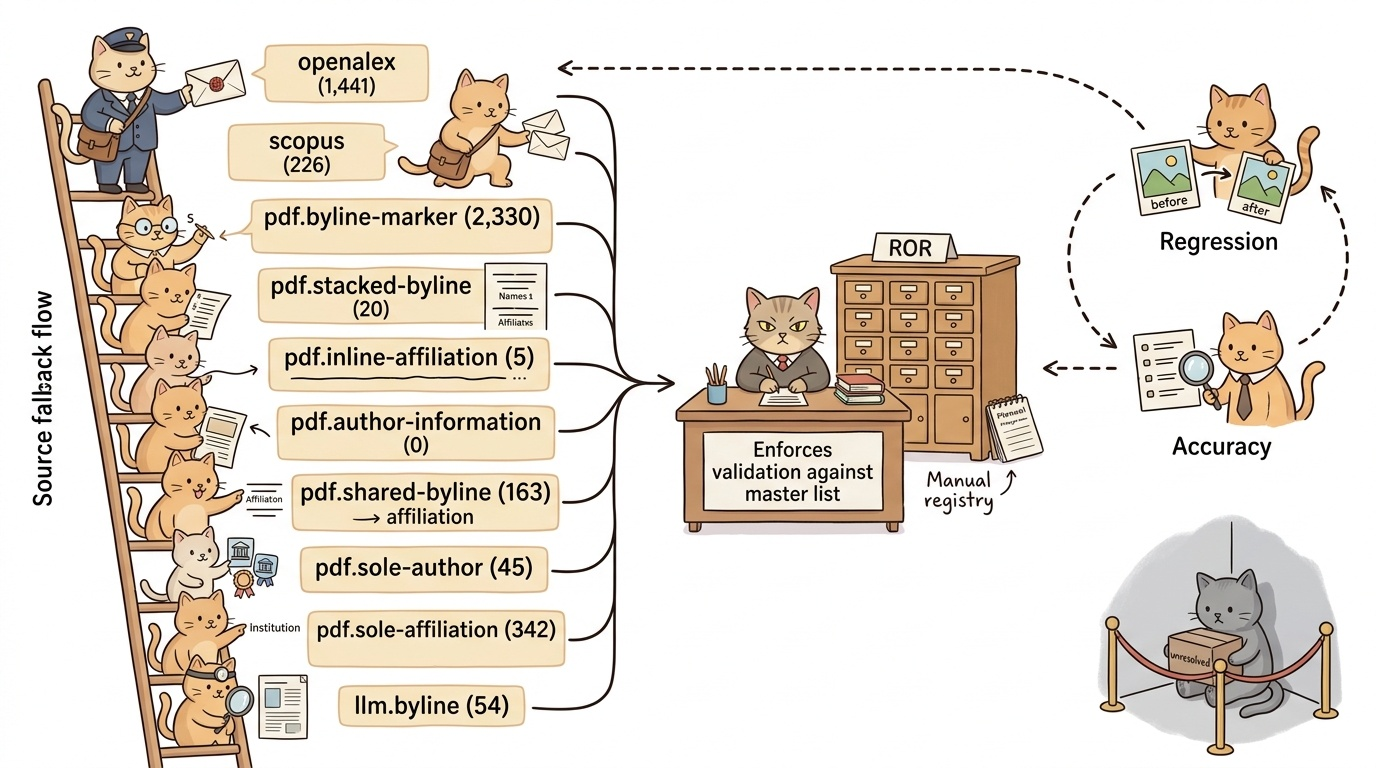
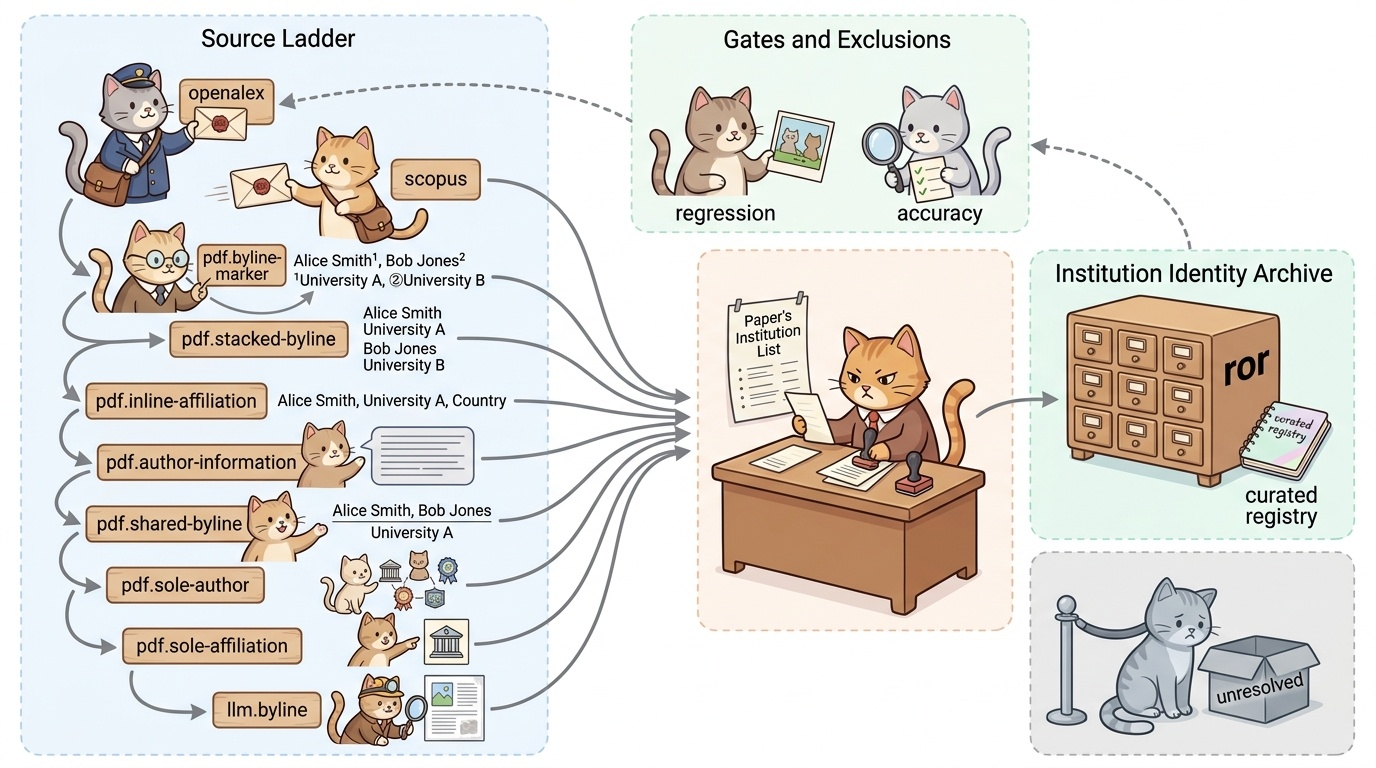
Point the page reader at the papers that need it, not at all of them
The experiment said reordering buys 13% more links for thirty minutes and
$2.83 per three hundred papers, while resolving exactly the same papers. So
the order stays and the reader is aimed instead: a paper whose parsers mapped
under 80% of its authors gets its page read again. That is usually a wide
collaboration whose byline wraps over ten lines and whose parser read one of
them.

`--augment` adds to what the parsers found rather than replacing it — their
rows are evidence in their own right — and skips papers already read. Over the
corpus: 1,126 papers selected, 1,120 read, 4,411 links added. Papers where
every author now has an institution went from 44.9% to 53.0%, trusted links
from 24,449 to 26,212, authors with an institution from 13,270 to 15,280.
Papers resolved stayed at 86.5%, which is the point: this finishes reading
papers rather than reaching new ones.

Fixing it exposed a worse bug. The list of evidence classes that count as an
answer had been copied into four modules and had drifted — pdf.shared-byline
was missing from the report and from the attribution audit, so the recompute
that moved 151 papers into that class read as a 2.7 point drop in coverage
that never happened. lib/evidence.py holds the list now and the four consumers
import it; three tests pin that, including one that fails if the backfill
learns to write a class nothing counts.

The cat figure is redrawn without any numbers — a count drawn into an image is
[…]

diff --git a/pipeline/extract_byline_llm.py b/pipeline/extract_byline_llm.py
@@ -82,6 +82,9 @@ def read_byline(client, png: bytes) -> list[dict]:
                 "type": "base64", "media_type": "image/png",
                 "data": base64.b64encode(png).decode()}},
             {"type": "text", "text": PROMPT}]}])
+    # A refusal, or a stop with no text block, comes back with empty content.
+    if not response.content:
+        return []
     text = response.content[0].text.strip()
     start, end = text.find("{"), text.rfind("}")
     if start < 0 or end < start:
@@ -148,11 +151,24 @@ def resolve(conn: sqlite3.Connection, paper_id: int,
     return rows
 
 
+# A paper whose parsers mapped most of its authors is left alone. Below this
+# the byline was read only in part — typically a wide collaboration where the
+# parser took the first line and stopped — and re-reading the page is worth its
+# cost. Measured on 300 ai4s papers: reading every page produced 14% more links
+# than the parsers, and of the links that differed, 190 were supported by the
+# page against the parsers' 87. Reading every page also cost 30 minutes and
+# $2.83 where the parsers cost 3.9 seconds, so the reader is pointed at the
+# papers that need it rather than at all of them.
+AUGMENT_BELOW = 0.8
+
+RESOLVED_SOURCES = ("openalex", "scopus", "llm.byline", "pdf.byline-marker",
+                    "pdf.inline-affiliation", "pdf.author-information",
+                    "pdf.stacked-byline", "pdf.shared-byline",
+                    "pdf.sole-author", "pdf.sole-affiliation")
+
+
 def targets(conn: sqlite3.Connection, mode: str, limit: int | None) -> list:
-    resolved = ("openalex", "scopus", "pdf.byline-marker",
-                "pdf.inline-affiliation", "pdf.author-information",
-                "pdf.stacked-byline", "pdf.shared-byline", "pdf.sole-author",
-                "pdf.sole-affiliation")
+    resolved = tuple(s for s in RESOLVED_SOURCES if s != "llm.byline")
     marks = ",".join("?" * len(resolved))
     if mode == "validate":
         sql = ("SELECT DISTINCT p.paper_id, p.slug,"
@@ -174,6 +190,38 @@ def targets(conn: sqlite3.Connection, mode: str, limit: int | None) -> list:
     return rows[:limit] if limit else rows
 
 
+def thin_targets(conn: sqlite3.Connection, threshold: float,
+                 limit: int | None) -> list:
+    """Papers the parsers resolved but only partly.
+
+    A wide collaboration wraps its byline over ten lines and a parser that
+    reads one of them still counts as having resolved the paper — the
+    remaining authors simply have no institution. Coverage, not resolution, is
+    what says the page is worth re-reading.
+    """
+    marks = ",".join("?" * len(RESOLVED_SOURCES))
+    rows = conn.execute(
+        f"SELECT p.paper_id, p.slug,"
+        f" json_extract(p.metadata_json,'$.pdf_path'),"
+        f" (SELECT COUNT(*) FROM paper_authors pa"
+        f"  WHERE pa.paper_id=p.paper_id) AS authors,"
+        f" (SELECT COUNT(DISTINCT pai.author_id)"
+        f"  FROM paper_author_institutions pai WHERE pai.paper_id=p.paper_id"
+        f"  AND pai.source IN ({marks})) AS linked,"
+        f" (SELECT COUNT(*) FROM paper_author_institutions pai"
+        f"  WHERE pai.paper_id=p.paper_id AND pai.source='llm.byline') AS done"
+        f" FROM papers p", RESOLVED_SOURCES).fetchall()
+    out = []
+    for paper_id, slug, pdf_path, authors, linked, done in rows:
+        if done or not authors or not linked:
+            continue                      # already read, or nothing to extend
+        if linked / authors >= threshold:
+            continue
+        if pdf_path and Path(pdf_path).exists():
+            out.append((paper_id, slug, pdf_path))
+    return out[:limit] if limit else out
+
+
 def main() -> int:
     ap = argparse.ArgumentParser(description=__doc__)
     ap.add_argument("--db", type=Path, default=DEFAULT_DB)
@@ -181,11 +229,15 @@ def main() -> int:
                     help="grade against papers the marker parser resolved")
     ap.add_argument("--unresolved", action="store_true",
                     help="read the papers no parser could resolve")
+    ap.add_argument("--augment", action="store_true",
+                    help="파서가 저자 일부만 매핑한 논문을 다시 읽는다")
+    ap.add_argument("--threshold", type=float, default=AUGMENT_BELOW,
+                    help=f"저자 커버리지가 이 값 미만이면 보강 (기본 {AUGMENT_BELOW})")
     ap.add_argument("--execute", action="store_true", help="write rows")
     ap.add_argument("--limit", type=int)
     args = ap.parse_args()
-    if not (args.validate or args.unresolved):
-        ap.error("--validate 또는 --unresolved 가 필요하다")
+    if not (args.validate or args.unresolved or args.augment):
+        ap.error("--validate / --unresolved / --augment 중 하나가 필요하다")
     if not os.environ.get("ANTHROPIC_API_KEY"):
         print("ANTHROPIC_API_KEY 가 없다", file=sys.stderr)
         return 2
@@ -194,8 +246,10 @@ def main() -> int:
     client = anthropic.Anthropic(timeout=180.0, max_retries=4)
     conn = sqlite3.connect(args.db, timeout=60.0)
     conn.execute("PRAGMA busy_timeout = 60000")
-    mode = "validate" if args.validate else "unresolved"
-    rows = targets(conn, mode, args.limit)
+    mode = ("validate" if args.validate
+            else "augment" if args.augment else "unresolved")
+    rows = (thin_targets(conn, args.threshold, args.limit) if args.augment
+            else targets(conn, mode, args.limit))
     report = {"mode": mode, "papers": len(rows), "read": 0, "linked": 0,
               "agree": 0, "partial": 0, "disagree": 0, "samples": []}
 
@@ -241,9 +295,13 @@ def main() -> int:
             # `source`, so inserting over an existing (paper, author,
             # institution) triple is silently ignored — and deleting after
             # that removed 81 papers' links and wrote nothing in their place.
-            conn.execute(
-                "DELETE FROM paper_author_institutions WHERE paper_id=?"
-                " AND source='pdf.unmarked-multi'", (paper_id,))
+            # Augmentation extends what the parsers found and never replaces
+            # it: the parser rows are evidence in their own right, and the
+            # reader adds the authors it did not reach.
+            if not args.augment:
+                conn.execute(
+                    "DELETE FROM paper_author_institutions WHERE paper_id=?"
+                    " AND source='pdf.unmarked-multi'", (paper_id,))
             conn.executemany(
                 "INSERT OR IGNORE INTO paper_author_institutions"
                 " (paper_id,author_id,institution_id,marker,author_order,"

diff --git a/pipeline/generate_attribution_diagram.py b/pipeline/generate_attribution_diagram.py
@@ -17,6 +17,7 @@ and left to rot.
 from __future__ import annotations
 
 import argparse
+import re
 import sqlite3
 import sys
 from pathlib import Path
@@ -78,7 +79,8 @@ VISUAL STYLE — CAT WORKFLOW
   style of a friendly children's science book. Soft rounded shapes.
 - White background, clean modern layout, soft pastel palette.
 - The ten source cats form a visible LADDER, top to bottom, each holding a
-  small sign with its tag and paper count. A cat only acts when the ones above
+  small sign carrying its tag and nothing else — no counts anywhere in this
+  figure. A cat only acts when the ones above
   it came back empty — draw them queued, not working in parallel.
 - Every cat's output flows into ONE gate: a stern librarian cat at a desk who
   checks each slip against the paper's own institution list before stamping it.
@@ -210,14 +212,21 @@ def main() -> int:
     method = method_text(stats)
     caption = CAPTION
     if args.style == "cat":
-        cast = "\n".join(
-            f"- **{source}** — {look} — "
-            f"{stats['by_source'].get(source, 0):,} papers"
-            for source, look in CAT_CAST)
+        # Strip every count from the prose too. Asking for a figure with no
+        # numbers while handing the model a page of them produces a figure
+        # with numbers.
+        method = re.sub(r"[\d,]+ papers?", "papers", method)
+        method = re.sub(r"\([\d.]+%\)", "", method)
+        method = re.sub(r"[\d,]{3,} of [\d,]{3,}", "most", method)
+        # No counts in the cat figure. The flow is what has to be legible,
+        # and a number drawn into an image is wrong the moment the next
+        # backfill runs. The academic figure keeps its counts.
+        cast = "\n".join(f"- **{source}** — {look}"
+                          for source, look in CAT_CAST)
         method = (method + "\n\n## The cast\n\n" + cast + "\n" + CAT_RULES)
         caption = (
             "A warm hand-drawn cat workflow. Ten cats queue in a vertical "
-            "ladder, each holding a sign with its tag and paper count, each "
+            "ladder, each holding a sign with its tag and no numbers, each "
             "acting only when the cats above came back empty. Every cat's slip "
             "flows to one librarian cat at a desk who checks it against the "
             "paper's own institution list and stamps it — the only way into "

diff --git a/pipeline/tests/test_affiliation_extraction_contract.py b/pipeline/tests/test_affiliation_extraction_contract.py
@@ -1222,5 +1222,50 @@ class DeclaredSharedAffiliationTests(unittest.TestCase):
                 "References\nAll authors are with Tsinghua University.\n"), "")
 
 
+class EvidenceSourceListTests(unittest.TestCase):
+    """One list of evidence classes, shared by everything that counts them.
+
+    It lived in four modules and drifted: pdf.shared-byline was missing from
+    the report and the attribution audit, so a recompute that moved 151 papers
+    into that class read as a 2.7 point drop in coverage that had not
+    happened.
+    """
+
+    def test_every_consumer_reads_the_same_list(self):
+        import sys
+        from pathlib import Path as _P
+        root = _P(__file__).resolve().parents[1]
+        if str(root) not in sys.path:
+            sys.path.insert(0, str(root))
+        from lib.evidence import RESOLVED_SOURCES
+        import report_field_leaders
+        import audit_author_attribution
+        self.assertIs(report_field_leaders.TRUSTED_SOURCES, RESOLVED_SOURCES)
+        self.assertIs(audit_author_attribution.RESOLVED_SOURCES,
+                      RESOLVED_SOURCES)
+
+    def test_the_fallback_is_never_an_answer(self):
+        import sys
+        from pathlib import Path as _P
+        root = _P(__file__).resolve().parents[1]
+        if str(root) not in sys.path:
+            sys.path.insert(0, str(root))
+        from lib.evidence import RESOLVED_SOURCES, UNRESOLVED_SOURCE
+        self.assertNotIn(UNRESOLVED_SOURCE, RESOLVED_SOURCES)
+
+    def test_every_class_the_backfill_writes_is_listed(self):
+        # A class the backfill can write but nothing counts is a silent hole.
+        import sys
+        from pathlib import Path as _P
+        root = _P(__file__).resolve().parents[1]
+        if str(root) not in sys.path:
+            sys.path.insert(0, str(root))
+        from lib.evidence import RESOLVED_SOURCES, UNRESOLVED_SOURCE
+        source = (root / "build_bibliography_db.py").read_text(encoding="utf-8")
+        written = set(re.findall(r'"(pdf\.[a-z-]+)"', source))
+        unknown = written - set(RESOLVED_SOURCES) - {UNRESOLVED_SOURCE}
+        self.assertEqual(unknown, set())
+
+
 if __name__ == "__main__":
     unittest.main()

diff --git a/pipeline/lib/evidence.py b/pipeline/lib/evidence.py
@@ -1,0 +1,34 @@
+"""Which evidence classes count as an answer, in one place.
+
+The list lived in four modules and drifted: `pdf.shared-byline` was missing
+from the report and from the attribution audit, so a recompute that moved 151
+papers into that class read as a 2.7 point drop in coverage that had not
+happened. A list copied four times is a list that will disagree with itself.
+
+Order is the order the backfill tries them, which is the order of how directly
+each source states who worked where.
+"""
+from __future__ import annotations
+
+# Publisher deposits, then the byline parsers, then the page reader.
+RESOLVED_SOURCES: tuple[str, ...] = (
+    "openalex",
+    "scopus",
+    "llm.byline",
+    "pdf.byline-marker",
+    "pdf.stacked-byline",
+    "pdf.inline-affiliation",
+    "pdf.author-information",
+    "pdf.shared-byline",
+    "pdf.sole-author",
+    "pdf.sole-affiliation",
+)
+
+# Read from the PDF rather than deposited by a publisher. Used where the two
+# kinds are compared against each other.
+PDF_SOURCES: tuple[str, ...] = tuple(
+    s for s in RESOLVED_SOURCES if s not in ("openalex", "scopus"))
+
+# Every author linked to every institution because the byline could not be
+# read. Never counted as an answer; queries exclude it by name.
+UNRESOLVED_SOURCE = "pdf.unmarked-multi"

diff --git a/pipeline/report_field_leaders.py b/pipeline/report_field_leaders.py
@@ -19,6 +19,7 @@ never there, so this report refuses it and uses only:
   pdf.inline-affiliation the byline names it on the author's own line (ACM)
   pdf.author-information a back-matter block names it per author (ACS)
   llm.byline           the rendered first page, read and then matched
+  pdf.shared-byline    the byline marks nobody, so it names everyone's
   pdf.sole-affiliation one institution on the paper, so no ambiguity
 
 `--include-guessed` puts the fallback back in, and the report says so, because
@@ -39,10 +40,7 @@ from pathlib import Path
 ROOT = Path(__file__).resolve().parents[1]
 DEFAULT_DB = ROOT / ".cache" / "bibliography.sqlite3"
 
-TRUSTED_SOURCES = ("openalex", "scopus", "llm.byline", "pdf.byline-marker",
-                   "pdf.inline-affiliation",
-                   "pdf.author-information", "pdf.stacked-byline",
-                   "pdf.sole-author", "pdf.sole-affiliation")
+from lib.evidence import RESOLVED_SOURCES as TRUSTED_SOURCES
 
 # Newest snapshot per paper, with the highest count any source reported.
 # Scopus indexes less than OpenAlex, so the sources are kept separate in the

diff --git a/pipeline/audit_author_attribution.py b/pipeline/audit_author_attribution.py
@@ -49,10 +49,7 @@ from lib import zotero_identity as zi          # noqa: E402
 PAPERS_DIR = ROOT / "docs" / "papers"
 DEFAULT_DB = ROOT / ".cache" / "bibliography.sqlite3"
 
-RESOLVED_SOURCES = ("openalex", "scopus", "llm.byline", "pdf.byline-marker",
-                    "pdf.inline-affiliation",
-                    "pdf.author-information", "pdf.stacked-byline",
-                    "pdf.sole-author", "pdf.sole-affiliation")
+from lib.evidence import RESOLVED_SOURCES
 
 STAGES = {
     "A": "text.md 없음",

diff --git a/README.md b/README.md
@@ -27,6 +27,42 @@
 > 기관에 귀속시키는 과정을 따로 정리했습니다. 근거 사다리 10단, 모든 출처가
 > 통과해야 하는 검문, ROR 과 명단, 그리고 "미해결은 답이 아니다"까지.
 
+### 왜 파서를 먼저 쓰고 LLM 을 나중에 쓰나
+
+렌더링한 1페이지를 LLM 으로 읽으면 위첨자·기호·각주 배치를 한 번에 처리한다.
+그러면 PDF 파서 여덟 개는 필요 없는 게 아닌가 — ai4s 무작위 **300편**으로 두
+배열을 비교했다 (`pipeline/experiment_ladder_order.py`, 시드 고정).
+
+|  | A: 파서 먼저 (현행) | B: LLM 먼저 |
+|---|---:|---:|
+| 해결한 논문 | **240** | **240** |
+| 저자↔기관 링크 | 1,051 | **1,186** |
+| 처리 시간 | **3.9초** | 30분 |
+| 비용 | **$0** | **$2.83** (1,000편당 $9.44) |
+
+**해결률은 완전히 같다.** 파서가 풀고 LLM 이 못 푼 논문도, 그 반대도 0편이었다.
+둘 다 실패한 60편은 기관 행이나 저자 자체가 없어 어떤 판독기로도 안 된다.
+
+차이는 **깊이**다. LLM 은 링크를 13% 더 만들고, 두 배열이 갈린 103편에서 추가된
+링크를 원문과 대조하면 **원문이 뒷받침한 것이 LLM 190건 vs 파서 87건**이다.
+다만 **원문에 없는 링크도 LLM 13건 vs 파서 1건** — 접지 관문을 통과했는데도
+페이지에 없는 기관이 섞인다.
+
+그래서 순서를 바꾸는 대신 **필요한 논문만 다시 읽는다.** 파서가 저자의 80% 미만만
+매핑한 논문 — 대개 바이라인이 열 줄로 감기는 대형 협업에서 파서가 첫 줄만 읽은
+경우 — 에 한해 `--augment` 로 페이지를 재판독한다. 전량 재판독 대비 비용은
+**1/3 수준**이고, 완결된 논문은 건드리지 않는다.
+
+```bash
+python pipeline/extract_byline_llm.py --augment --execute
+```
+
+코퍼스 전체에 적용한 결과 — 대상 1,126편 중 1,120편을 읽어 링크 4,411개를 얻었다.
+**저자 전원의 소속이 확정된 논문이 44.9% → 53.0%** 로 올랐고, 신뢰 링크는
+24,449 → 26,212건, 기관이 확정된 저자는 13,270 → 15,280명이 됐다. 해결된 논문
+수(86.5%)는 그대로다 — 보강은 새 논문을 푸는 게 아니라 **이미 푼 논문을 끝까지
+읽는** 작업이기 때문이다.
+
 ## 목차
 
 - [📖 독자로 둘러보기](#-독자로-둘러보기)

diff --git a/docs/attribution.md b/docs/attribution.md
@@ -27,7 +27,8 @@
 |9|`pdf.sole-affiliation`|기관이 하나면 모호함이 없음|
 |10|`llm.byline`|렌더링한 1페이지를 읽음 — 나머지가 전부 실패했을 때|
 
-10번은 마지막이자 가장 넓다. 후행 마커·그리스 문자·이메일 대체·좁은 각주가
+10번은 마지막이자 가장 넓다. 위 아홉 칸이 **한 명도** 매핑하지 못했을 때, 그리고
+저자의 80% 미만만 매핑했을 때(`--augment`) 실행된다. 후행 마커·그리스 문자·이메일 대체·좁은 각주가
 렌더링된 페이지에서는 그냥 보이기 때문이다. 열두 번의 레이아웃 수정으로 85.8%
 까지 온 뒤, 이 한 칸이 **54편을 한 번에** 풀었다.
 
@@ -113,8 +114,9 @@ Gang Huang   OpenAlex: Peking University
 |기관이 붙은 논문|3,758 / 4,196 (89.6%)|
 |ROR로 확정된 기관 링크|11,839 / 13,208 (89.6%)|
 |저자↔기관 근거 확정 논문|3,628 (86.5%)|
-|신뢰 링크|24,449건|
-|추정 링크 (질의 제외)|8,360건|
+|신뢰 링크|26,212건|
+|기관이 확정된 저자|15,280명|
+|저자 전원이 확정된 논문|2,222 (53.0%)|
 
 ## 실행
 
@@ -124,7 +126,11 @@ python pipeline/build_bibliography_db.py --recompute-author-institutions
 
 # 나머지를 렌더링한 1페이지로 읽기
 python pipeline/extract_byline_llm.py --validate --limit 30   # 먼저 채점
-python pipeline/extract_byline_llm.py --unresolved --execute
+python pipeline/extract_byline_llm.py --unresolved --execute  # 아무도 못 푼 논문
+python pipeline/extract_byline_llm.py --augment --execute     # 일부 저자만 잡힌 논문
+
+# 순서를 바꿀지 재보고 싶을 때 (운영 DB 에 쓰지 않는다)
+python pipeline/experiment_ladder_order.py --topic ai4s --sample 300
 
 # 남은 것의 원인 분류
 python pipeline/audit_author_attribution.py
